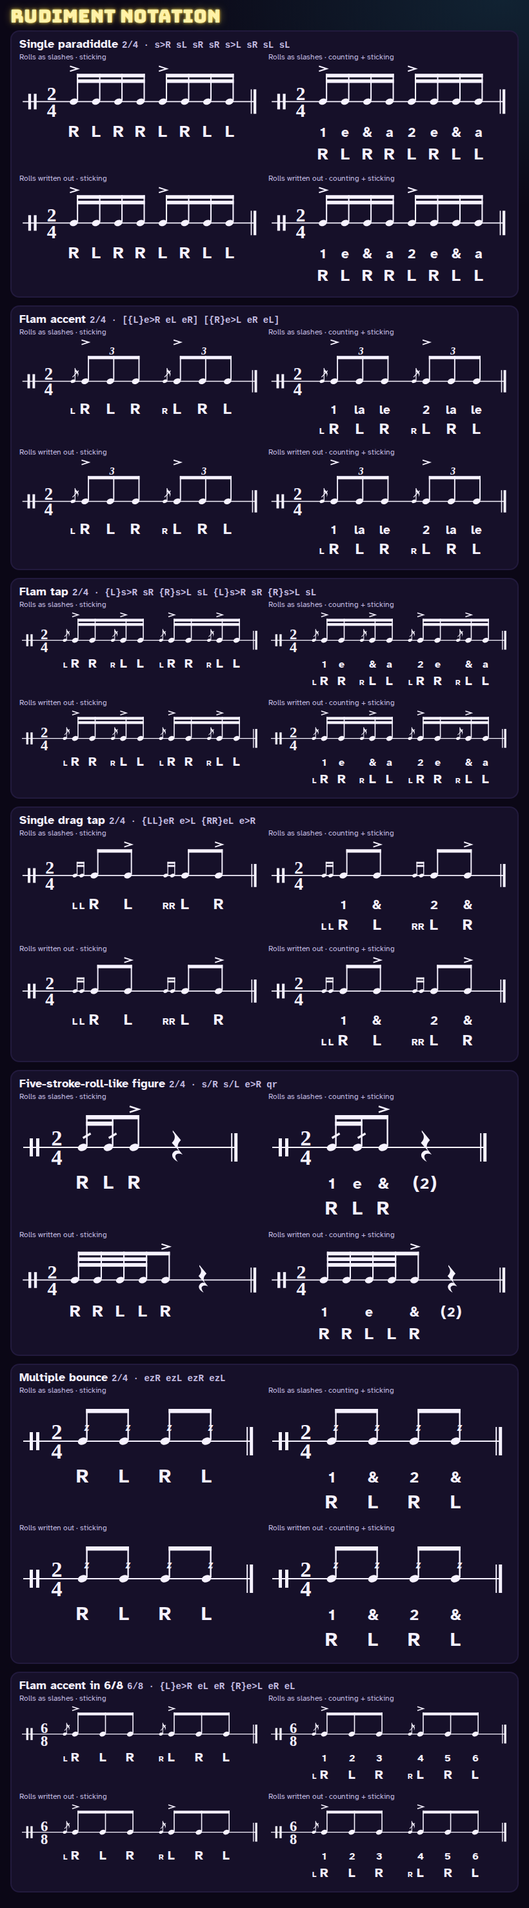
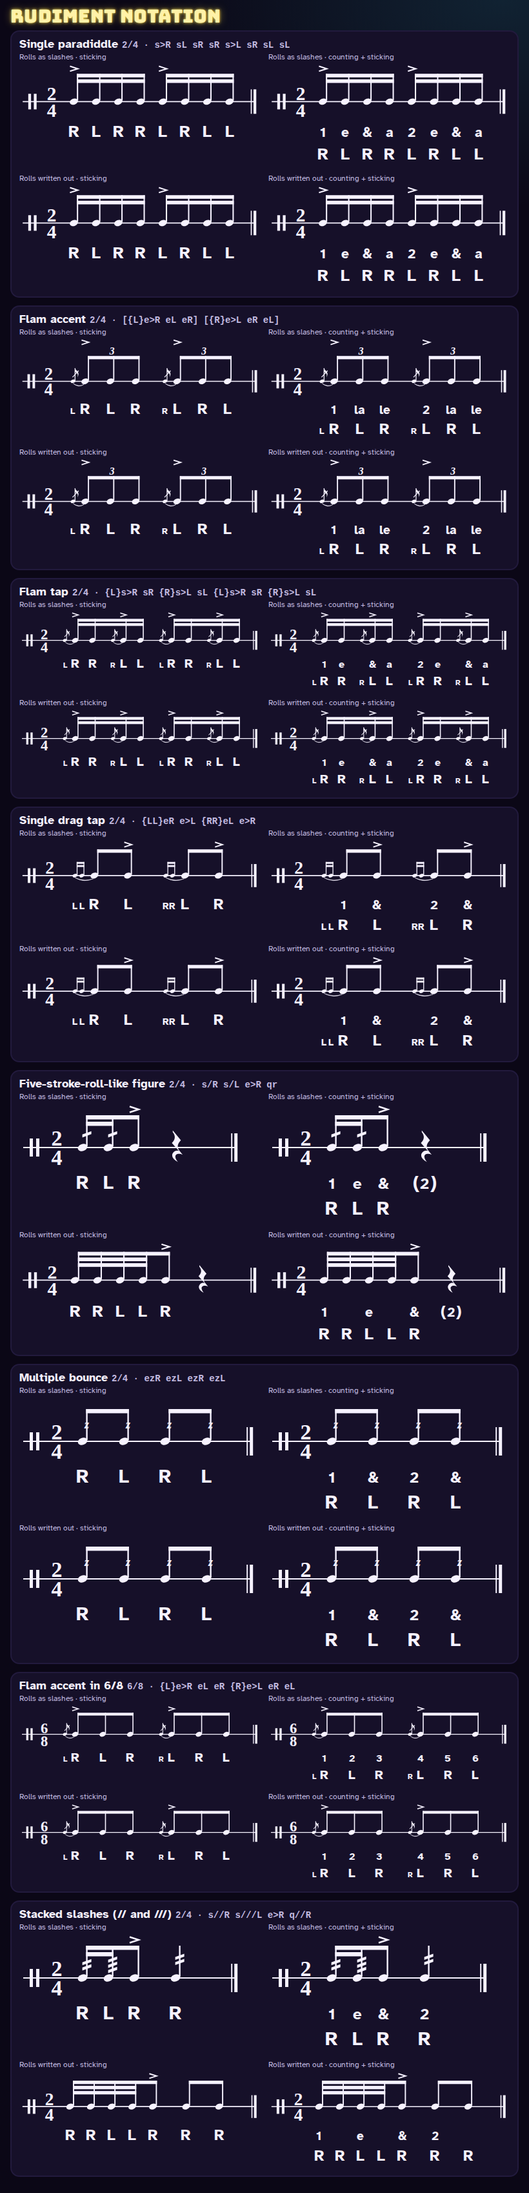
Rudiment notation: grace-note slurs, bolder roll slashes, larger buzz z (Mr. Graham's review)
- every grace group gets a small slur under the heads from its first grace
  to its own main note (path.rs-gslur): drawing only, never a tie; the
  parse, strokes() and the counting don't see it
- roll slashes are bold diagonals about a beam thick, centered on the
  stem halfway between the head and the beam (or the stem's end); // and
  /// stack parallel and evenly
- the buzz z is the size of a grace sticking letter, centered on the stem
  at a slash's height
- tests for all three; the gallery sheet regenerated (+ a // /// example)

Claude-Session: https://claude.ai/code/session_012ajpwjjy3eKsfiuJCwZNap

diff --git a/tests/rudiment-notation.spec.js b/tests/rudiment-notation.spec.js
@@ -23,6 +23,8 @@ const EX = [
   {name: 'Multiple bounce', time: '2/4', text: 'ezR ezL ezR ezL'},
   {name: 'Flam accent in 6/8', time: '6/8', text: '{L}e>R eL eR {R}e>L eR eL'},
 ];
+// the staff checks and the gallery also draw // and /// (stacked slashes; an unbeamed quarter's slashes reach its stem's end)
+const STAFF_EX = [...EX, {name: 'Stacked slashes (// and ///)', time: '2/4', text: 's//R s///L e>R q//R'}];
 const sha = s => crypto.createHash('sha1').update(s).digest('hex').slice(0, 16);
 
 async function open(page) {
@@ -111,6 +113,23 @@ test.describe('rudiment notation', () => {
     watch.check();
   });
 
+  test('the grace-note slur is drawing only: the parse, strokes() and the counting are the same before and after engraving', {tag: '@quick'}, async ({page}) => {
+    const watch = await open(page);
+    const r = await page.evaluate(EX => EX.filter(e => /\{/.test(e.text)).map(e => {
+      const C = Arcade.Counting, p = C.parse(e.text, e.time), snap = () => JSON.stringify([p.notes, C.strokes(p), C.text(C.groups(p))]);
+      const before = snap(), svgs = ['slash', 'written'].map(rolls => Arcade.RhythmStaff.engrave(p, {rolls, sticking: true}).svg);
+      return {before, after: snap(), slurs: svgs.map(s => (s.match(/rs-gslur/g) || []).length), groups: p.notes.filter(n => n.graces.length).length, ties: p.notes.filter(n => n.tie).length,
+        tiePaths: svgs.map(s => (s.match(/rs-tie/g) || []).length)};
+    }), EX);
+    expect(r.length).toBe(4);
+    r.forEach(x => {
+      expect(x.after).toBe(x.before);
+      expect(x.slurs).toEqual([x.groups, x.groups]);
+      expect([x.ties, ...x.tiePaths]).toEqual([0, 0, 0]);                  // never a tie
+    });
+    watch.check();
+  });
+
   for (const rolls of ['slash', 'written']) {
     test(`the staff (${rolls}): one sticking letter under each head, accents above, graces left of their note, nothing past the edge`, async ({page}) => {
       const watch = await open(page);
@@ -128,16 +147,33 @@ test.describe('rudiment notation', () => {
           const graces = [...svg.querySelectorAll('g.rs-grace')].map(g => ({n: +g.dataset.n, b: box(g), heads: g.querySelectorAll('ellipse').length,
             slash: g.querySelectorAll('line').length > g.querySelectorAll('ellipse').length, beams: g.querySelectorAll('rect').length}));
           const accs = [...svg.querySelectorAll('path.rs-acc')].map(a => box(a));
+          const graceHeads = [...svg.querySelectorAll('g.rs-grace')].map(g => ({n: +g.dataset.n, first: box(g.querySelector('ellipse'))}));
+          const gslurs = [...svg.querySelectorAll('path.rs-gslur')].map(pth => {
+            const l = pth.getTotalLength(), a = pth.getPointAtLength(0), b = pth.getPointAtLength(l / 2);
+            return {n: +pth.dataset.n, b: box(pth), a: {x: a.x, y: a.y}, end: {x: b.x, y: b.y}};
+          });
+          // per note: its stem, the bottom of what is above the slashes (the beam at this stem, or the stem's end), slashes, z
+          const stemmed = [...svg.querySelectorAll('g.rn:not(.rest)')].filter(g => g.querySelector('.rs-slash, .rs-buzz')).map(g => {
+            const st = g.querySelector('line'), sx = +st.getAttribute('x1'), stTop = +st.getAttribute('y2'), head = box(g.querySelector('ellipse'));
+            const under = [...svg.querySelectorAll('rect')].filter(r => +r.getAttribute('x') <= sx && +r.getAttribute('x') + +r.getAttribute('width') >= sx && +r.getAttribute('y') < head.y)
+              .reduce((m, r) => Math.max(m, +r.getAttribute('y') + +r.getAttribute('height')), stTop);
+            const slashes = [...g.querySelectorAll('.rs-slash')].map(pth => {
+              const pts = pth.getAttribute('d').match(/-?[\d.]+/g).map(Number);
+              return {b: box(pth), x0: pts[0], y0: pts[1], x1: pts[2], y1: pts[3], x3: pts[6], y3: pts[7]};
+            });
+            const z = g.querySelector('.rs-buzz');
+            return {n: +g.dataset.n, sx, head, under, slashes, z: z ? {b: box(z), fs: +z.getAttribute('font-size')} : null};
+          });
           const beams = [...svg.querySelectorAll('rect')].map(r => ({x: +r.getAttribute('x'), y: +r.getAttribute('y'), w: +r.getAttribute('width')}));
           const all = box(svg), vb = svg.viewBox.baseVal;
           const bars = [...svg.querySelectorAll('line.rs-bar')].map(l => +l.getAttribute('x1'));
           const allTexts = [...svg.querySelectorAll('text, ellipse, path, rect, line')].map(el => { const b = el.getBoundingClientRect(), s = svg.getBoundingClientRect(); return {r: b.right - s.left, l: b.left - s.left}; });
           return {name: e.name, counting, notes: p.notes.map(n => ({i: n.i, hand: n.hand, accent: n.accent, graces: n.graces, roll: n.roll, rest: n.rest, buzz: n.buzz})),
-            heads, threes, hands, ghands, graces, accs, beams, bars, W: vb.width, H: vb.height, h: E.h, w: E.w, strokes: E.strokes,
+            heads, threes, graceHeads, gslurs, stemmed, hands, ghands, graces, accs, beams, bars, W: vb.width, H: vb.height, h: E.h, w: E.w, strokes: E.strokes,
             maxR: Math.max(...allTexts.map(t => t.r)), minL: Math.min(...allTexts.map(t => t.l)), slashes: svg.querySelectorAll('path.rs-slash').length,
             buzzes: svg.querySelectorAll('text.rs-buzz').length, svgW: svg.getBoundingClientRect().width, top: all.y, written: rolls === 'written'};
         }));
-      }, [EX, rolls]);
+      }, [STAFF_EX, rolls]);
       for (const r of res) {
         const where = `${r.name} (${rolls}, counting ${r.counting})`;
         // one main letter per head, in order, under it
@@ -178,6 +214,44 @@ test.describe('rudiment notation', () => {
           expect(g.heads, where).toBe(want);
           expect(g.slash, `${where}: a single grace has its slash`).toBe(want === 1);
           expect(g.beams, where).toBe(want === 1 ? 0 : 2);
+        });
+        // the grace-note slur (drawing only): one per grace group, from the first grace head to its own main note's head,
+        // under the heads, clear of the sticking row
+        const groups = r.notes.filter(n => n.graces.length);
+        expect(r.gslurs.map(g => g.n), `${where}: one slur per grace group`).toEqual(groups.map(n => n.i));
+        r.gslurs.forEach(g => {
+          const first = r.graceHeads.find(h => h.n === g.n).first, hd = r.heads.find(h => h.n === g.n && h.s === 0).b;
+          expect(g.a.x, `${where}: slur ${g.n} starts at the first grace head`).toBeGreaterThanOrEqual(first.x - .5);
+          expect(g.a.x, `${where}: slur ${g.n} starts at the first grace head`).toBeLessThanOrEqual(first.x + first.width + .5);
+          expect(g.end.x, `${where}: slur ${g.n} ends at its own note's head`).toBeGreaterThanOrEqual(hd.x - .5);
+          expect(g.end.x, `${where}: slur ${g.n} ends at its own note's head`).toBeLessThanOrEqual(hd.x + hd.width + .5);
+          expect(g.b.y, `${where}: slur ${g.n} below the heads' middle`).toBeGreaterThan(hd.y + hd.height / 2);
+          expect(g.b.y + g.b.height, `${where}: slur ${g.n} curves gently`).toBeLessThan(hd.y + hd.height + 12);
+          [...r.hands, ...r.ghands].forEach(h => expect(g.b.y + g.b.height, `${where}: slur ${g.n} clear of the sticking`).toBeLessThan(h.b.y - 4));
+        });
+        // slashes: bold, centered on the stem, rising left to right, halfway between head and beam (or the stem's end),
+        // stacked parallel and evenly; the z the size of a small grace letter, centered on the stem at the slashes' height
+        r.stemmed.forEach(st => {
+          const mid = (st.under + st.head.y) / 2;
+          if (st.slashes.length) {
+            const cy = st.slashes.map(sl => sl.b.y + sl.b.height / 2), avg = cy.reduce((a, b) => a + b, 0) / cy.length;
+            expect(Math.abs(avg - mid), `${where}: note ${st.n}'s slashes halfway between head and beam`).toBeLessThan(2);
+            st.slashes.forEach((sl, j) => {
+              expect(Math.abs(sl.b.x + sl.b.width / 2 - st.sx), `${where}: slash ${j} centered on the stem`).toBeLessThan(.6);
+              expect(sl.y0, `${where}: slash ${j} rises left to right`).toBeGreaterThan(sl.y1);
+              expect(sl.y0 - sl.y3, `${where}: slash ${j} about a beam thick`).toBeGreaterThanOrEqual(4);
+              expect(sl.b.y, `${where}: slash ${j} below the beam`).toBeGreaterThan(st.under);
+              expect(sl.b.y + sl.b.height, `${where}: slash ${j} clear of the head`).toBeLessThan(st.head.y);
+              // (coordinates are rounded to 0.1 px)
+              if (j) expect(Math.abs((sl.y0 - st.slashes[j - 1].y0) - (st.slashes[1].y0 - st.slashes[0].y0)), `${where}: slashes evenly spaced`).toBeLessThan(.25);
+              if (j) expect(Math.abs((sl.y1 - sl.y0) - (st.slashes[0].y1 - st.slashes[0].y0)), `${where}: slashes parallel`).toBeLessThan(.25);
+            });
+          }
+          if (st.z) {
+            expect(st.z.fs, `${where}: the z ~60 % of a sticking letter, never smaller`).toBeGreaterThanOrEqual(30 * .6);
+            expect(Math.abs(st.z.b.x + st.z.b.width / 2 - st.sx), `${where}: the z centered on the stem`).toBeLessThan(1.5);
+            expect(Math.abs(st.z.b.y + st.z.b.height / 2 - mid), `${where}: the z at a slash's height`).toBeLessThan(4);
+          }
         });
         // rolls: slashes in the slash view; in the written view the 32nds get a third beam
         const rolled = r.notes.filter(n => n.roll).length;
@@ -245,7 +319,7 @@ test.describe('rudiment notation', () => {
             return `<figure style="margin:0"><figcaption style="font-size:12px;color:var(--text-lo)">${label}</figcaption><div style="color:var(--text-hi)">${E.svg.replace('<svg ', '<svg style="max-width:100%;height:auto" ')}</div></figure>`;
           }).join('')}</div></section>`).join('')}</div>`;
       RS.refine(document.body);
-    }, EX);
+    }, STAFF_EX);
     if (process.env.GALLERY) await page.locator('#sheet').screenshot({path: path.join(ROOT, 'docs/gallery/rudiment-notation.png')});
     watch.check();
   });

diff --git a/shared/rhythm-staff.js b/shared/rhythm-staff.js
@@ -13,11 +13,11 @@
          id          a prefix for element ids (several staffs on one page)
          sticking    false (default): true = R / L under each head (small under grace heads), as large as the counting's
                      big syllables; with the counting on it goes under the counting and the staff is 40 px taller
-         rolls       'slash' (default): each / a short thick diagonal through the stem (between head and beam);
+         rolls       'slash' (default): each / a bold diagonal centered on the stem, halfway between head and beam (// /// stacked);
                      'written': a / note drawn as its two strokes (half the value, same hand, beamed by the beat: 32nds
                      get a third beam), each its own g.rn with data-s 0 / 1. A z is a small "z" on the stem either way.
        Accents (>) are drawn above the stems and beams (above a triplet's 3: then the drawing moves down `lift` px) and
-       grace notes left of their note (one: a small slashed eighth; two or more: small beamed sixteenths; no slur), with
+       grace notes left of their note (one: a small slashed eighth; two or more: small beamed sixteenths; a small slur from the first grace to the note, drawing only), with
        room made before them. These come from the text, so a rhythm without them draws exactly as before.
        Also returns `strokes`: [{n, s, x}] one per drawn head (graces s < 0), for lighting each stroke as it plays; in
        'written' mode `notes` and `xs` are the drawn strokes (each keeps its parsed note's i, plus s).
@@ -28,7 +28,7 @@
    THE PARTS (classes, for a game's CSS): notes `g.rn` (data-n = note index, data-g = counting group), counting groups
    `g.rc` (data-g) holding `text.rc-big` (data-t = its tick), `text.rc-small` (data-t), `text.rc-par` (rest parentheses)
    and `line.rc-u` (the underline under the small syllables only); rudiments: `text.rs-hand` (data-n, data-s),
-   `text.rs-hand.grace`, `path.rs-acc`, `g.rs-grace` (data-n = the main note), `path.rs-slash`, `text.rs-buzz`. Colors are currentColor: style them with tokens.
+   `text.rs-hand.grace`, `path.rs-acc`, `g.rs-grace` (data-n = the main note), `path.rs-slash`, `text.rs-buzz`, `path.rs-gslur` (a grace group's slur, drawing only). Colors are currentColor: style them with tokens.
    SPACING like printed music: space grows with the note's length (log), then widened wherever a note's counting
    needs more room than its value gives; a fixed pad after every bar line. */
 window.Arcade = window.Arcade || {};
@@ -150,12 +150,17 @@ window.Arcade = window.Arcade || {};
           parts.push(`<line x1="${round(sx)}" y1="${LINE - 2}" x2="${round(sx)}" y2="${TOP}" stroke="currentColor" stroke-width="2.4"/>`);
           if (!beamOf[k] && LEVELS[n.val]) parts.push(flagSVG(sx, LEVELS[n.val]));
         }
-        if (n.roll) parts.push(slashSVG(x, n.val === 'w' ? null : x + STEM_DX, n.roll));
-        if (n.buzz) parts.push(`<text class="rs-buzz" x="${round(n.val === 'w' ? x : x + STEM_DX)}" y="${LINE - 16}" font-family="Georgia,serif" font-style="italic" font-weight="700" font-size="19" text-anchor="middle" fill="currentColor">z</text>`);
+        if (n.roll || n.buzz) {
+          // halfway between the head and the beam (the stem's end when there is no beam; a whole note: above its head)
+          const stem = n.val !== 'w', cx = stem ? x + STEM_DX : x;
+          const top = beamOf[k] ? TOP + (LEVELS[n.val] - 1) * 10 + 6.5 : TOP, mid = stem ? (top + LINE - HEAD_RY - 2) / 2 : LINE - 22;
+          if (n.roll) parts.push(slashSVG(cx, mid, n.roll));
+          else parts.push(`<text class="rs-buzz" x="${round(cx)}" y="${round(mid + HAND.grace * .3)}" font-family="Georgia,serif" font-style="italic" font-weight="700" font-size="${HAND.grace}" text-anchor="middle" fill="currentColor">z</text>`);
+        }
       }
       if (n.dots) for (let d = 0; d < n.dots; d++) parts.push(`<circle cx="${round(x + 15 + d * 8)}" cy="${LINE - 5}" r="2.8" fill="currentColor"/>`);
       out.push(`<g class="rn${n.rest ? ' rest' : ''}" data-n="${n.i}"${written ? ` data-s="${n.s || 0}"` : ''} data-g="${gi}" id="${pre}-n${n.i}${n.s ? 's' + n.s : ''}">${parts.join('')}</g>`);
-      if (!n.rest && n.graces && n.graces.length) out.push(graceSVG(n, x));
+      if (!n.rest && n.graces && n.graces.length) out.push(graceSVG(n, x), graceSlurSVG(n, x));
       if (!n.rest) {
         strokes.push({n: n.i, s: n.s || 0, x: round(x)});
         if (n.graces) n.graces.forEach((h, j) => strokes.push({n: n.i, s: j - n.graces.length, x: round(graceX(n, x, j))}));
@@ -233,12 +238,14 @@ window.Arcade = window.Arcade || {};
     }
     return s;
   }
-  /* a roll's slashes through the stem, between the head and the beam (a whole note: above its head) */
-  function slashSVG(x, sx, n) {
+  /* a roll's slashes: bold diagonals (about a beam's thickness) centered on the stem at `mid`, rising left to right;
+     // and /// stack parallel, evenly spaced around mid */
+  const SL = {half: 7, rise: 2.5, thick: 4.6, gap: 8};
+  function slashSVG(cx, mid, n) {
     let s = '';
     for (let j = 0; j < n; j++) {
-      const cx = sx == null ? x : sx, cy = LINE - 18 - j * 7;
-      s += `<path class="rs-slash" d="M${round(cx - 6)} ${round(cy + 3.5)}L${round(cx + 6)} ${round(cy - 3.5)}" stroke="currentColor" stroke-width="3.2" fill="none"/>`;
+      const cy = mid + (j - (n - 1) / 2) * SL.gap, t = SL.thick / 2, l = cx - SL.half, r = cx + SL.half;
+      s += `<path class="rs-slash" d="M${round(l)} ${round(cy + SL.rise + t)}L${round(r)} ${round(cy - SL.rise + t)}L${round(r)} ${round(cy - SL.rise - t)}L${round(l)} ${round(cy + SL.rise - t)}z" fill="currentColor"/>`;
     }
     return s;
   }
@@ -263,6 +270,12 @@ window.Arcade = window.Arcade || {};
       parts.push(`<rect x="${round(a)}" y="${top}" width="${round(wd)}" height="3.6" fill="currentColor"/><rect x="${round(a)}" y="${top + 6}" width="${round(wd)}" height="3.6" fill="currentColor"/>`);
     }
     return `<g class="rs-grace" data-n="${n.i}">${parts.join('')}</g>`;
+  }
+  /* the grace-note slur: DRAWING ONLY (never a tie: the counting, strokes and ticks don't know it), under the heads from
+     the first grace head to its own main note's head, thin like a tie */
+  function graceSlurSVG(n, x) {
+    const x1 = graceX(n, x, 0), x2 = x - 2, y1 = LINE + 4, y2 = LINE + 6, m = (x1 + x2) / 2, d = 6;
+    return `<path class="rs-gslur" data-n="${n.i}" d="M${round(x1)} ${y1}Q${round(m)} ${y2 + d + 2} ${round(x2)} ${y2}Q${round(m)} ${y2 + d} ${round(x1)} ${y1}z" fill="currentColor" stroke="currentColor" stroke-width=".6"/>`;
   }
   function handSVG(h, x, y, fs, n, s, grace) {
     return `<text class="rs-hand${grace ? ' grace' : ''}" data-n="${n}" data-s="${s}" x="${round(x)}" y="${y}" font-size="${fs}">${h}</text>`;

diff --git a/docs/engine/rhythm.md b/docs/engine/rhythm.md
@@ -3,7 +3,7 @@
 - RHYTHMS AND COUNTING (Rhythm Dojo; any game that shows a rhythm uses these, never its own):
   - `shared/counting.js` = MR. GRAHAM'S COUNTING. `Arcade.Counting.parse(text, time)` reads rhythms as TEXT (`w h q e s`, `.` dotted, `r` rest, `_` tied to the next note, `[e e e]` a triplet, `|` bar lines, checked) into TICKS (a quarter = 12; 6/8's eighth-note beat = 6); `groups(parsed)` → one counting group per note (a tie chain is ONE group, across bar lines too) or rest: `{big (the starting syllable), small: [{text, t}] (every grid point held through, strictly inside), rest, grid}`; `text(groups)` → `'1^(& 2) & (3^(4))'` (plain text: `^( )` = small, `( )` = rest). Syllables: 1 2 3 4 · 1 & 2 & · 1 e & a · 1 la le (triplets); 3/4 and 2/4 the same with fewer beats; 6/8 = 1 2 3 4 5 6 (the eighth gets the beat), its sixteenths 1 & 2 & …. THE RULE: a note's small syllables use the COARSEST grid (quarter → eighth → triplet → sixteenth; 6/8: eighth → sixteenth) on which both its start and its end fall. `rhythm-dojo/examples.js` = the Counting Board's examples with the counting each must show (the tests check every one).
   - `shared/rhythm-staff.js` = THE RHYTHM STAFF: `Arcade.RhythmStaff.engrave(parsed, {from, to, counting, showTime, id, groups})` → `{svg, w, h, xAt(tick), xs, bars, t0, t1}`: a ONE-LINE PERCUSSION STAFF drawing exactly the written values (stems up, beams by beat: 6/8 by dotted quarter, rests break them, sixteenths' secondary beams and stubs; flags, dots, ties under the heads (half ties at a row's edges), triplet 3s / brackets, rests, time signature, bar lines, final bar) with the counting underneath: the starting syllable full size, the held ones SMALL + RAISED with ONE underline under them only, rests in parentheses. Spacing grows with the note's length (log) and widens wherever a note's counting needs room. `rows(parsed, perRow)` splits long rhythms into rows (a tie or a counting group continues on the next row); `refine(root)` re-measures the counting with the real font once the SVG is in the page. Classes for a game's CSS: `g.rn` (a note, data-g = its group), `g.rc` (a counting group), `.rc-big`, `.rc-small` (data-t = tick), `.rc-par`, `.rc-u`; colors are currentColor. (Music Highway's notation.js is different: it spells durations itself from a melody.)
-  - RUDIMENT NOTATION (sticking, accents, grace notes, rolls; for the Rudiment Trainer, added to the two files above; every existing rhythm parses, counts and draws byte-for-byte as before: `tests/rudiment-notation.spec.js` checks it against `tests/fixtures/rhythm-staff-before.json`). THE TOKEN: `{graces} value dots rest roll accent HAND tie`: HAND = `R` / `L` at the end (`sR`, `e>L`; optional); `>` = accent; `{L}` before the note = one grace (a flam: `{L}e>R`), `{RR}` = two (a drag), each letter a grace's hand in playing order; graces take NO time (no ticks, no syllable, not in the bar's total); `/` = a DOUBLE STROKE (two equal strokes, same hand, half the value each: `s/R` = R R as two 32nds); `//` and `///` parse and draw, but **their stroke meaning is undecided** (`strokes()` treats them like `/`; the Rudiment Trainer's list settles it if a rudiment needs it); `z` = a buzz stroke (one hand, not countable). ERRORS: `{X}`, a lone `{L}` (with a space before its note), `z` with `/`, more than `///`, and graces / a hand / an accent / a roll / a buzz on a rest. `parse` adds to every note `hand` ('R' | 'L' | null), `accent`, `graces` ([] / ['L'] / ['R','R']), `roll` (0–3), `buzz`. `Counting.strokes(parsed, {rolls})` → every stroke in playing order `[{n, s, t, hand, accent, grace, buzz}]`: graces s = -2, -1 with their note's `t`, the note s = 0, a roll's second stroke s = 1 at `t + d/2`; rests and tied-into notes aren't struck; the same for both roll views; no ms, no audio. ENGRAVE: `sticking: true` (R / L under each head, as large as the counting's big syllables, grace letters ~60 %; replaces the counting row with `counting: false`, else under it and the staff is 40 px taller), `rolls: 'slash'` (default: thick diagonals through the stem) | `'written'` (each `/` note drawn as its two strokes, beamed by the beat, 32nds with a third beam and stubs; each stroke its own `g.rn` with `data-s`; in this mode the returned `notes` / `xs` are the drawn strokes); accents above the beam (above a triplet's 3: the drawing moves down, `lift`); grace notes small, stems up, left of their note with room made (one = a slashed eighth, two+ = beamed sixteenths, no slur); `z` a small "z" on the stem in both views; `strokes: [{n, s, x}]` = every drawn head (graces s < 0). Classes: `text.rs-hand` (data-n, data-s), `text.rs-hand.grace`, `path.rs-acc`, `g.rs-grace` (data-n), `path.rs-slash`, `text.rs-buzz`; all currentColor. `rows()` splits by measure, so a grace never ends a row apart from its note. THE TICK DECISION: `TPQ` stays 12. A written-out 32nd is 1.5 ticks, drawn by the engraver alone at fractional positions (and `strokes()` gives that fractional `t`). Raising TPQ to 24 would have changed the drawn SVG itself (the counting's `data-t` are ticks) and needed edits in three games that time ticks as 12 a quarter (Blocktave's rhythm card `beatS / 12`, the snare's `/ 12` and `% 12`). `GALLERY=1` saves `docs/gallery/rudiment-notation.png` (the syntax examples, both roll views, sticking alone and with the counting, iPad width) for Mr. Graham's review.
+  - RUDIMENT NOTATION (sticking, accents, grace notes, rolls; for the Rudiment Trainer, added to the two files above; every existing rhythm parses, counts and draws byte-for-byte as before: `tests/rudiment-notation.spec.js` checks it against `tests/fixtures/rhythm-staff-before.json`). THE TOKEN: `{graces} value dots rest roll accent HAND tie`: HAND = `R` / `L` at the end (`sR`, `e>L`; optional); `>` = accent; `{L}` before the note = one grace (a flam: `{L}e>R`), `{RR}` = two (a drag), each letter a grace's hand in playing order; graces take NO time (no ticks, no syllable, not in the bar's total); `/` = a DOUBLE STROKE (two equal strokes, same hand, half the value each: `s/R` = R R as two 32nds); `//` and `///` parse and draw, but **their stroke meaning is undecided** (`strokes()` treats them like `/`; the Rudiment Trainer's list settles it if a rudiment needs it); `z` = a buzz stroke (one hand, not countable). ERRORS: `{X}`, a lone `{L}` (with a space before its note), `z` with `/`, more than `///`, and graces / a hand / an accent / a roll / a buzz on a rest. `parse` adds to every note `hand` ('R' | 'L' | null), `accent`, `graces` ([] / ['L'] / ['R','R']), `roll` (0–3), `buzz`. `Counting.strokes(parsed, {rolls})` → every stroke in playing order `[{n, s, t, hand, accent, grace, buzz}]`: graces s = -2, -1 with their note's `t`, the note s = 0, a roll's second stroke s = 1 at `t + d/2`; rests and tied-into notes aren't struck; the same for both roll views; no ms, no audio. ENGRAVE: `sticking: true` (R / L under each head, as large as the counting's big syllables, grace letters ~60 %; replaces the counting row with `counting: false`, else under it and the staff is 40 px taller), `rolls: 'slash'` (default: each `/` a bold diagonal about a beam thick, rising left to right, centered on the stem halfway between the head and the beam (or the stem's end; a whole note: above its head); `//` and `///` stack parallel, evenly spaced, still clear of the head and the accent) | `'written'` (each `/` note drawn as its two strokes, beamed by the beat, 32nds with a third beam and stubs; each stroke its own `g.rn` with `data-s`; in this mode the returned `notes` / `xs` are the drawn strokes); accents above the beam (above a triplet's 3: the drawing moves down, `lift`); grace notes small, stems up, left of their note with room made (one = a slashed eighth, two+ = beamed sixteenths), each group with a small SLUR under the heads from its first grace head to its own main note's head (`path.rs-gslur`, data-n): **DRAWING ONLY**, never a tie (not the `_` logic): the counting groups, `strokes()`, ticks and the parse fields never see it; `z` = an italic "z" the size of a grace sticking letter (60 % of a big one), centered on the stem at a slash's height, in both views; `strokes: [{n, s, x}]` = every drawn head (graces s < 0). Classes: `text.rs-hand` (data-n, data-s), `text.rs-hand.grace`, `path.rs-acc`, `g.rs-grace` (data-n), `path.rs-slash`, `text.rs-buzz`, `path.rs-gslur`; all currentColor. `rows()` splits by measure, so a grace never ends a row apart from its note. THE TICK DECISION: `TPQ` stays 12. A written-out 32nd is 1.5 ticks, drawn by the engraver alone at fractional positions (and `strokes()` gives that fractional `t`). Raising TPQ to 24 would have changed the drawn SVG itself (the counting's `data-t` are ticks) and needed edits in three games that time ticks as 12 a quarter (Blocktave's rhythm card `beatS / 12`, the snare's `/ 12` and `% 12`). `GALLERY=1` saves `docs/gallery/rudiment-notation.png` (the syntax examples + stacked `//` / `///`, both roll views, sticking alone and with the counting, iPad width) for Mr. Graham's review.
   - `shared/onsets.js` = CLAPS AND HITS: sharp onsets from the energy of the pre-emphasized signal in 128-sample frames (`RULES`: a frame ≥ `rise` × the background of `bgFrom`–`bgTo` ms before, above the gate = `gateK` × the sensitivity slider's gate, `refractoryMs` 85), NEVER pitch. `Arcade.Onsets.analyse(samples, sr)` (recordings, tests), `listen(fn)` → `{stop()}` (fn `{time (performance ms, sample-accurate: counted from the stream), level}`), reading the same microphone as pitch.js (`Pitch.source()`) through a ScriptProcessor, only while `Pitch.listening()` and never during `Pitch.suppress`; `watchNode(node)` (tests: the game's own output looped back), `fake(time)` (?demo keys), `log`. CLASSROOM MODE (`Pitch.classroom()`): it keeps its own room floor of the emphasized signal (frozen while not listening / suppressed) and an onset must also reach `ROOM.attackOverFloor` × that floor and `ROOM.hitShare` × the room check's `ownOnset` (`Onsets.analyse(…, {classroom, own})` for tests; `Onsets.tap(fn)` = every onset even while a game isn't listening: the room check only). See [pitch.md](pitch.md).
   - `shared/calibration.js` = THE AUDIO CLOCK + THE TIMING CHECK (moved out of Music Highway, which uses it too): `Arcade.AudioClock.create()` → `{start(), sample(), audAt(perfMs) (the AUDIBLE context time), now(), ctx, out, off}`; `Arcade.Calibration.analyse({clicks, lead, attacks, audAt, rules, accept})` → `{offs, median, spread, accepted, bleed, clickLike, ok, why}` (the median attack-to-click offset; a round that is machine-steady near 0 ms or far too early is the click itself: refused). THE SAVED DELAY (one per device, shared by Rhythm Dojo and Showtime Malfunction's snare): `Calibration.saved(key)` / `store(key, res)` = `gameData('rhythm-dojo').calib[key]` ('clap' | 'tap'; the snare uses 'clap'), `lag(key)` = the saved ms, else `RD_RULES.defaultLag`, else `DEFAULT_LAG`.
   - `shared/rhythm-judge.js` = THE RHYTHM JUDGE (moved out of Rhythm Dojo, same results): `Arcade.RhythmJudge.match(targets, attacks, {perfectMs, goodMs, okMs, lateMs})` → each attack claims the nearest unjudged note within `lateMs` (PERFECT / GOOD / OK / EARLY / LATE), leftover notes MISS, leftover attacks EXTRA. Rhythm Dojo and the snare's rhythm/accent machines use it; never a second judge.
